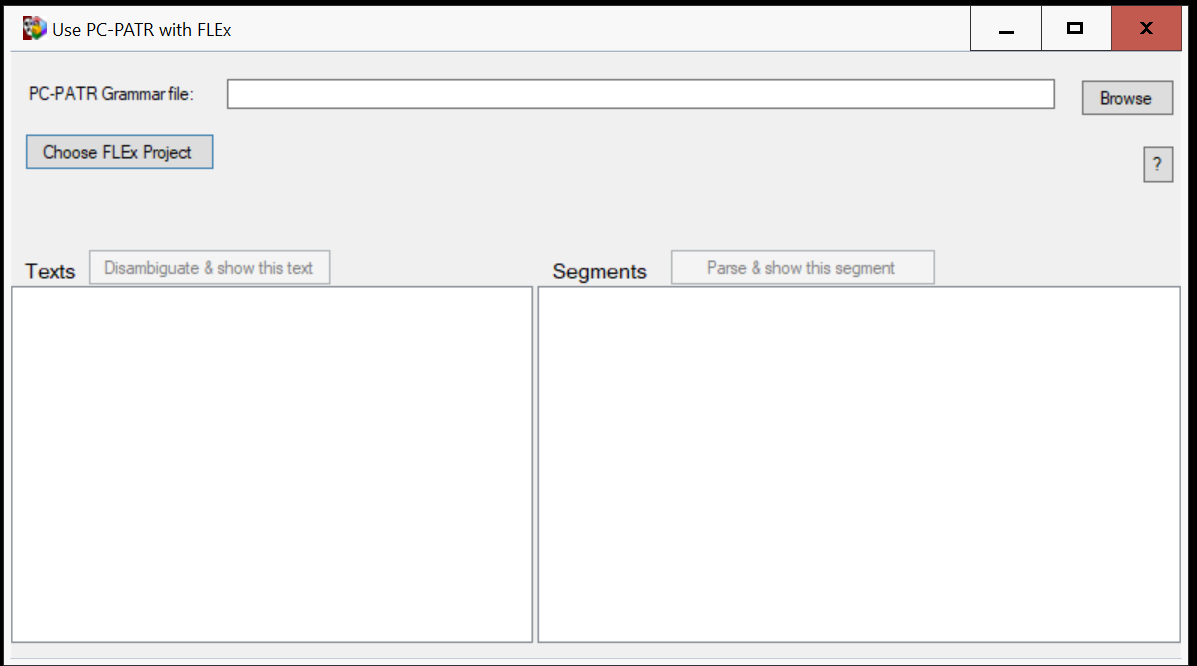
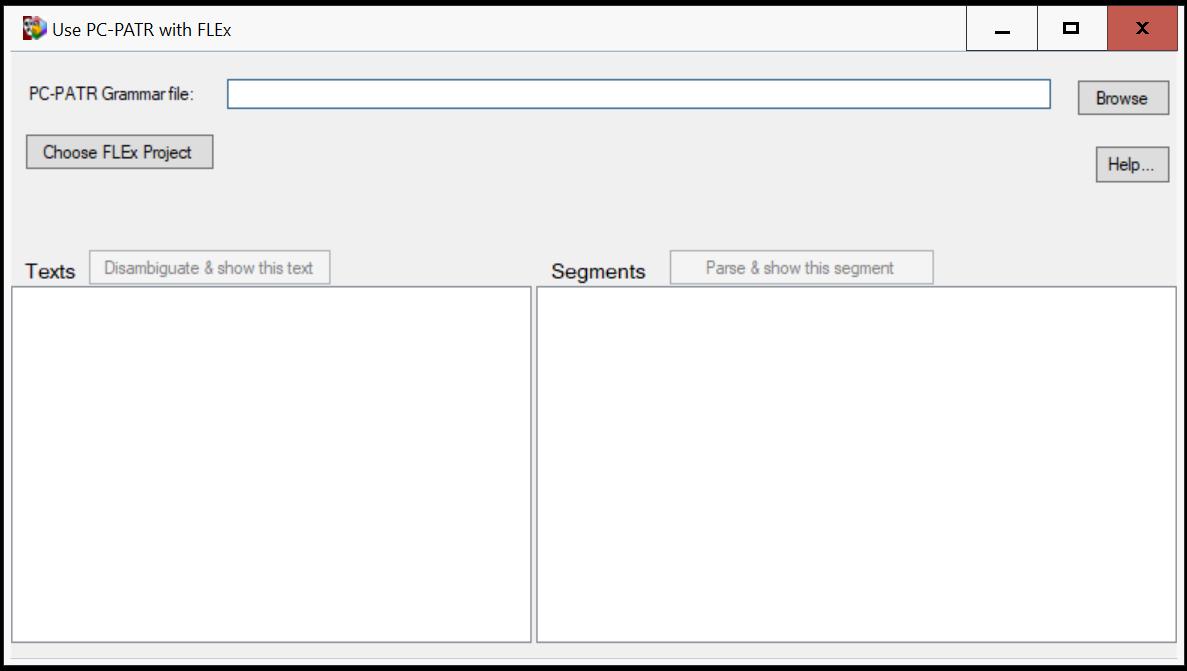
Change Help button from ? to Help... Modify the About box to include compatible database version of FLEx.

diff --git a/PcPatrFLEx/Properties/AssemblyInfo.cs b/PcPatrFLEx/Properties/AssemblyInfo.cs
@@ -6,7 +6,7 @@ using System.Runtime.InteropServices;
 // set of attributes. Change these attribute values to modify the information
 // associated with an assembly.
 [assembly: AssemblyTitle("Use PC-PATR with FLEx")]
-[assembly: AssemblyDescription("This program enables one to use a PC-PATR grammar to disambiguate a text in FieldWorks Language Explorer.\r\n\r\nThis software is licensed under the LGPL, version 2.1 or later\r\n(http://www.gnu.org/licenses/lgpl-2.1.html)")]
+[assembly: AssemblyDescription("This program enables one to use a PC-PATR grammar to disambiguate a text in FieldWorks Language Explorer.\r\nIt is compatible with FLEx database version 7000072 such as in version 9.0.4 Beta of FLEx.\r\n\r\nThis software is licensed under the LGPL, version 2.1 or later\r\n(http://www.gnu.org/licenses/lgpl-2.1.html)")]
 [assembly: AssemblyConfiguration("")]
 [assembly: AssemblyCompany("SIL International")]
 [assembly: AssemblyProduct("Use PC-PATR with FLEx")]
@@ -32,5 +32,5 @@ using System.Runtime.InteropServices;
 // You can specify all the values or you can default the Build and Revision Numbers
 // by using the '*' as shown below:
 // [assembly: AssemblyVersion("1.0.*")]
-[assembly: AssemblyVersion("0.1.0.0")]
-[assembly: AssemblyFileVersion("0.1.0.0")]
+[assembly: AssemblyVersion("1.0.0.0")]
+[assembly: AssemblyFileVersion("1.0.0.0")]

diff --git a/PcPatrFLEx/PcPatrFLExForm.Designer.cs b/PcPatrFLEx/PcPatrFLExForm.Designer.cs
@@ -190,11 +190,11 @@
 			// btnHelp
 			// 
 			this.btnHelp.Anchor = ((System.Windows.Forms.AnchorStyles)((System.Windows.Forms.AnchorStyles.Top | System.Windows.Forms.AnchorStyles.Right)));
-			this.btnHelp.Location = new System.Drawing.Point(1189, 96);
+			this.btnHelp.Location = new System.Drawing.Point(1146, 96);
 			this.btnHelp.Name = "btnHelp";
-			this.btnHelp.Size = new System.Drawing.Size(33, 40);
+			this.btnHelp.Size = new System.Drawing.Size(76, 40);
 			this.btnHelp.TabIndex = 6;
-			this.btnHelp.Text = "?";
+			this.btnHelp.Text = "Help...";
 			this.btnHelp.UseVisualStyleBackColor = true;
 			this.btnHelp.Click += new System.EventHandler(this.btnHelp_Click);
 			// 
